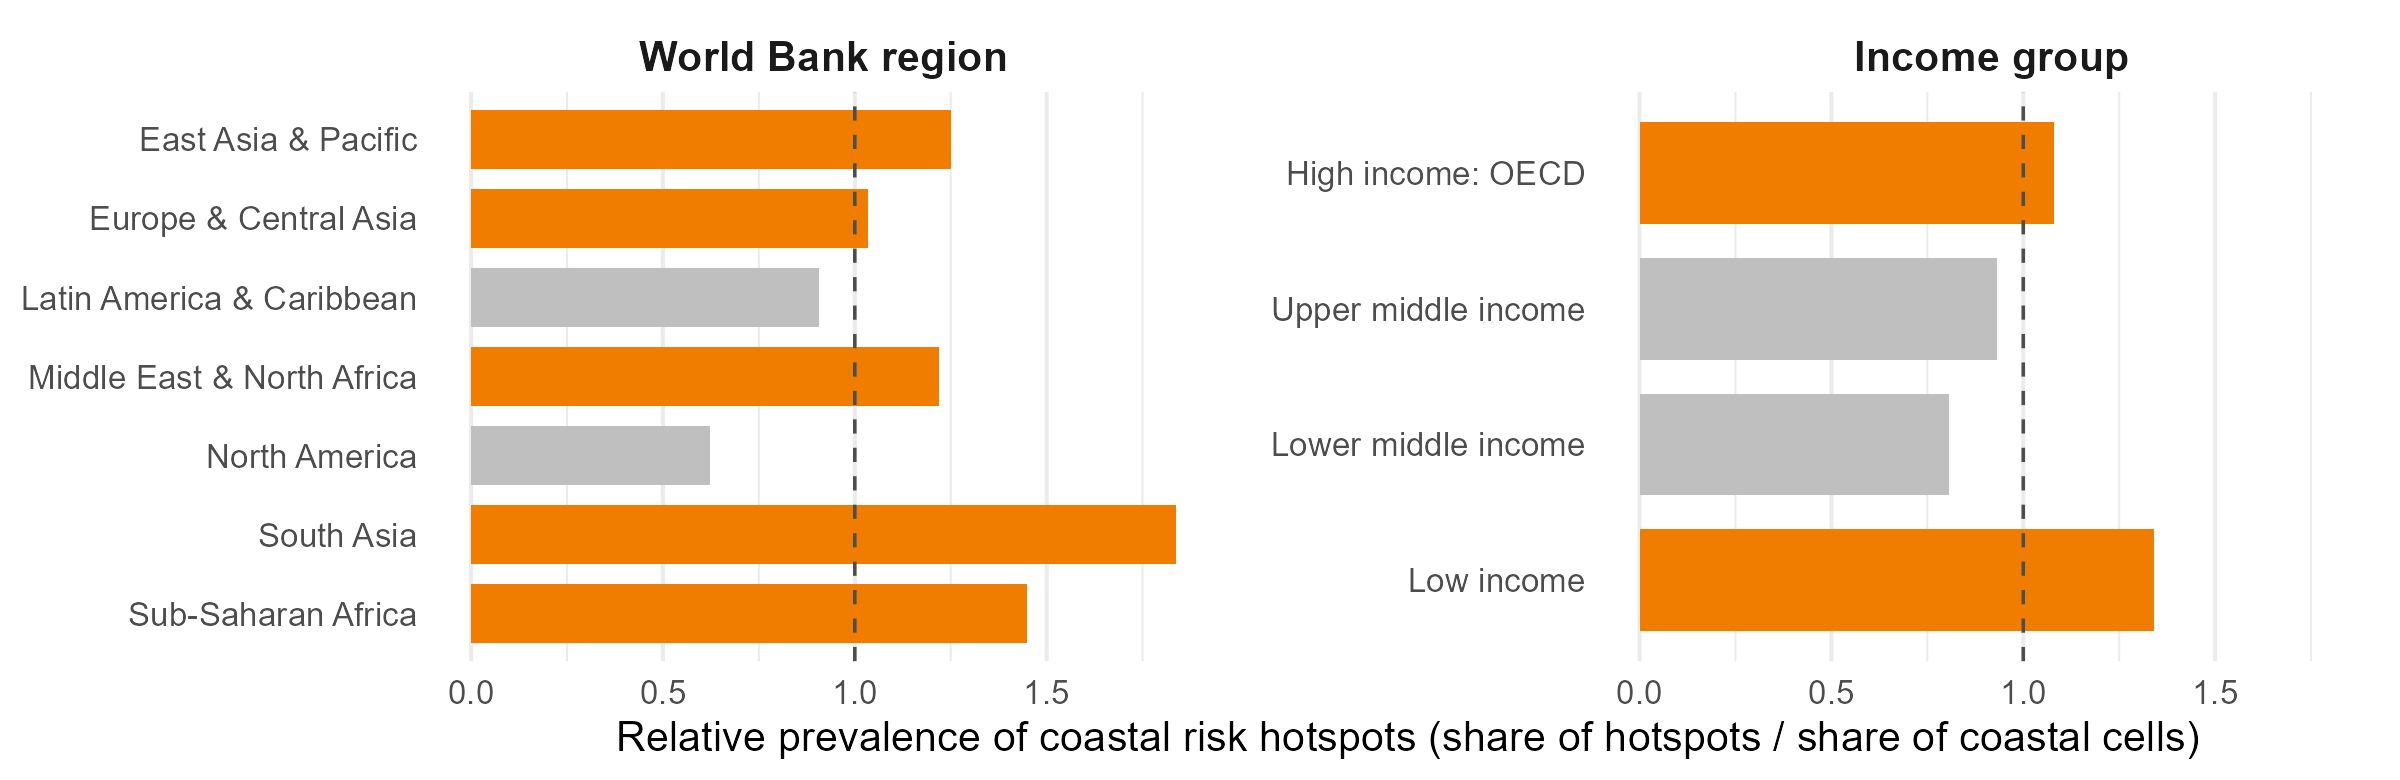
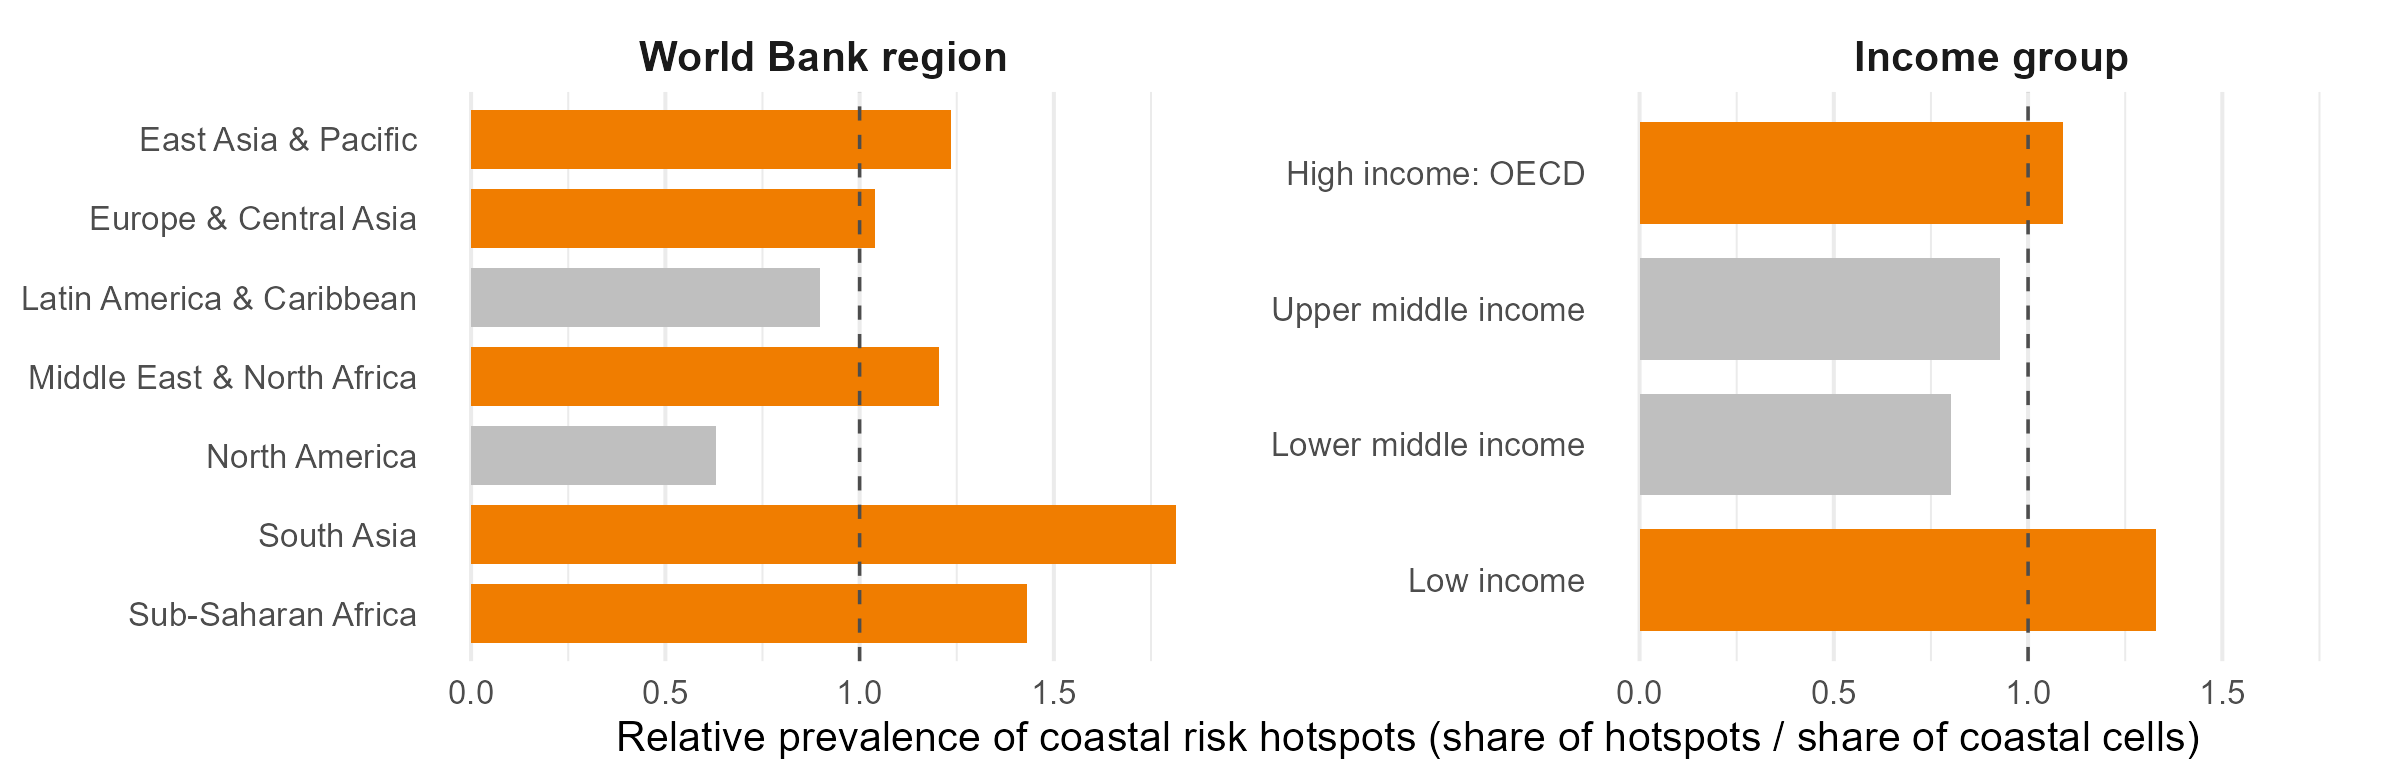
Settle the evaluated cell universe; rebuild prevalence on it
- docs/cell_universe.md: 1,522,073 grid cells -> 1,372,621 evaluated cells
  (no Antarctica, open ocean, Lakes, Rock & Ice); all 189,932 hotspots are
  selected there (13.8%)
- analysis/verify_cell_universe.R: re-derives the universe and each
  service's 5% set and checks them against the production hotspots
- rebuild_hotspot_area_stats.R restricted to the evaluated cells (group
  denominators no longer include Lakes / Rock & Ice); prevalence figures
  regenerated

diff --git a/docs/cell_universe.md b/docs/cell_universe.md
@@ -1,0 +1,49 @@
+# Cell universe: which cells every number is computed on
+
+Settled 2026-10-07. Checked by `analysis/verify_cell_universe.R` (stops on any mismatch). Use these
+counts and denominators everywhere (paper, book, deck, figures); do not re-derive them by hand.
+
+## Counts
+
+| Set | Cells | Definition |
+|---|---:|---|
+| Grid | 1,522,073 | All cells of the IUCN AOO 10 km equal-area grid in `10k_change_calc.gpkg` |
+| **Evaluated cells** | **1,372,621** | Grid minus Antarctica and open ocean (`continent`) and minus Lakes and Rock & Ice (`WWF_biome`). Same exclusions as `hotspot_extraction.qmd`. Cells with no region, income group or biome stay in. |
+| N export, sediment export, pollination | 1,372,621 | Evaluated cells with a value (all of them) |
+| Nature access | 1,354,611 | Evaluated cells with a value |
+| Coastal risk | 79,473 | Evaluated coastal cells with a value |
+| Hotspot cells, any service | 189,932 | Union of the five 5% sets; all inside the evaluated cells |
+| Hotspots per service | 68,632 (N, sediment, pollination), 67,731 (nature access), 3,974 (coastal risk) | 5% tail of each service's valid cells, by SPC, in its adverse direction |
+
+**Hotspot share: 189,932 / 1,372,621 = 13.8% of evaluated cells.** In text: "1.37 million cells".
+
+## Denominators for group results
+
+Relative prevalence (`data/processed/tables/hotspot_area_stats.csv`, built by
+`analysis/rebuild_hotspot_area_stats.R`) uses, for each service, the evaluated cells that have that
+service and the grouping. Groups excluded from reporting: High income nonOECD, and cells with no
+group. Shares are taken among grouped cells, so about 45% of coastal risk hotspots (coastal-edge cells
+with no biome) and about 40% (no region or income group) sit outside the group results.
+
+| Grouping | Evaluated cells with the grouping |
+|---|---:|
+| World Bank region | 1,323,140 |
+| Income group (excl. High income nonOECD) | 1,292,444 |
+| WWF biome | 1,321,423 |
+
+## Numbers that are NOT the universe
+
+- **1,302,099**: an older sum of group totals from a previous `hotspot_area_stats.csv`. Retired;
+  do not cite.
+- **1.37 million coastal risk points** (`coastal_risk_tnc_esa1992_2020_20251224_013825.gpkg`):
+  shoreline points, a different unit from grid cells. The similar magnitude is a coincidence.
+- **Before 2026-10-07** the prevalence table counted Lakes and Rock & Ice cells in group
+  denominators. Fixing it moved the lower-middle vs high-income OECD ratio from 2.4x to 2.3x and a
+  few biome values by 0.1. Previous table kept as
+  `hotspot_area_stats_pre_universe_fix_20261007.csv`.
+
+## Known small discrepancy
+
+Pollination's production hotspot set differs from a re-derived 5% tail by 34 cells (17 swapped)
+because of tied values at the cutoff. Counts match exactly; nothing downstream depends on which tied
+cells are in.
